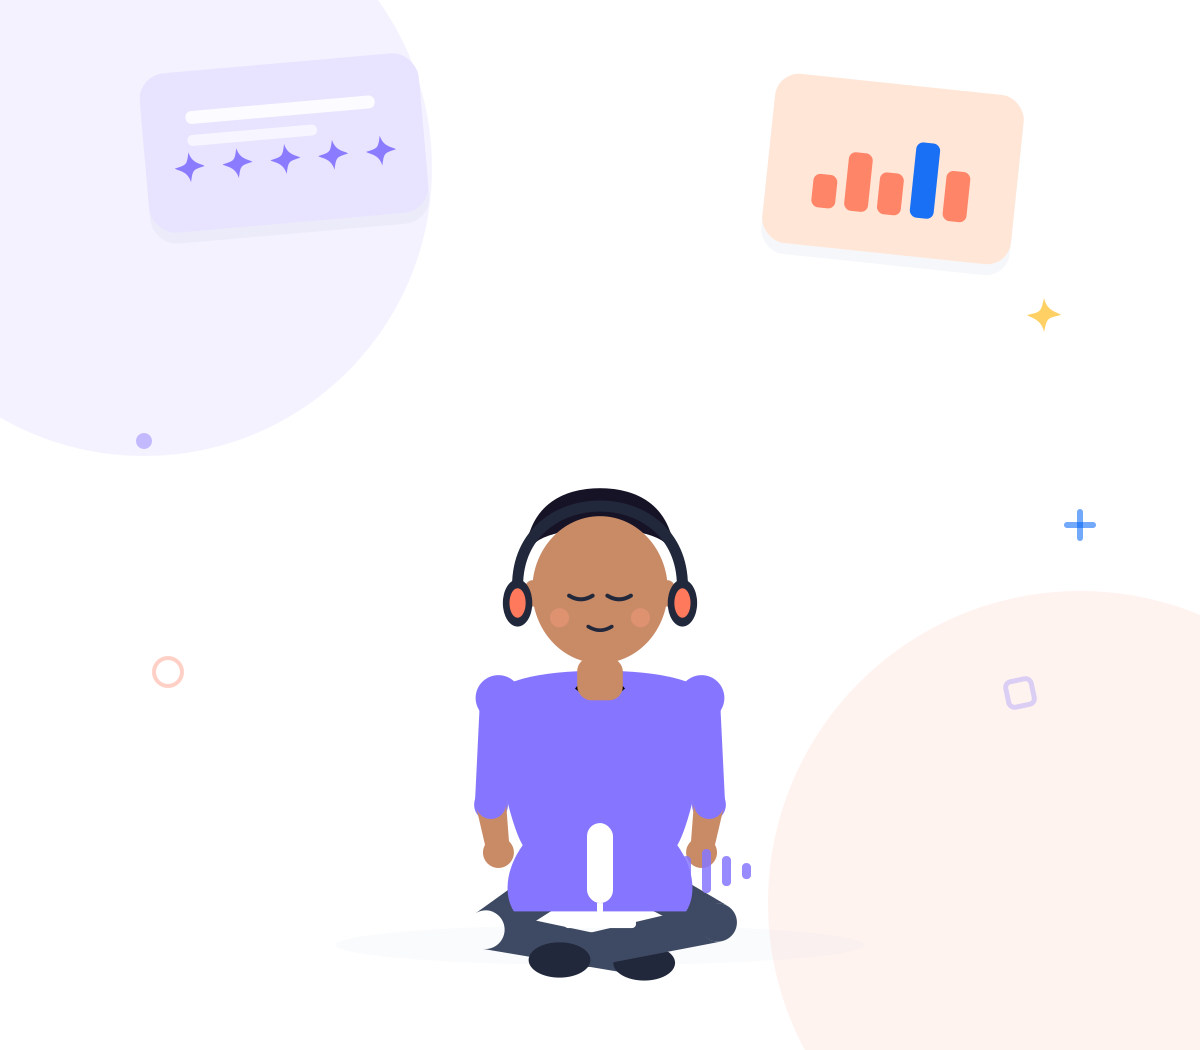
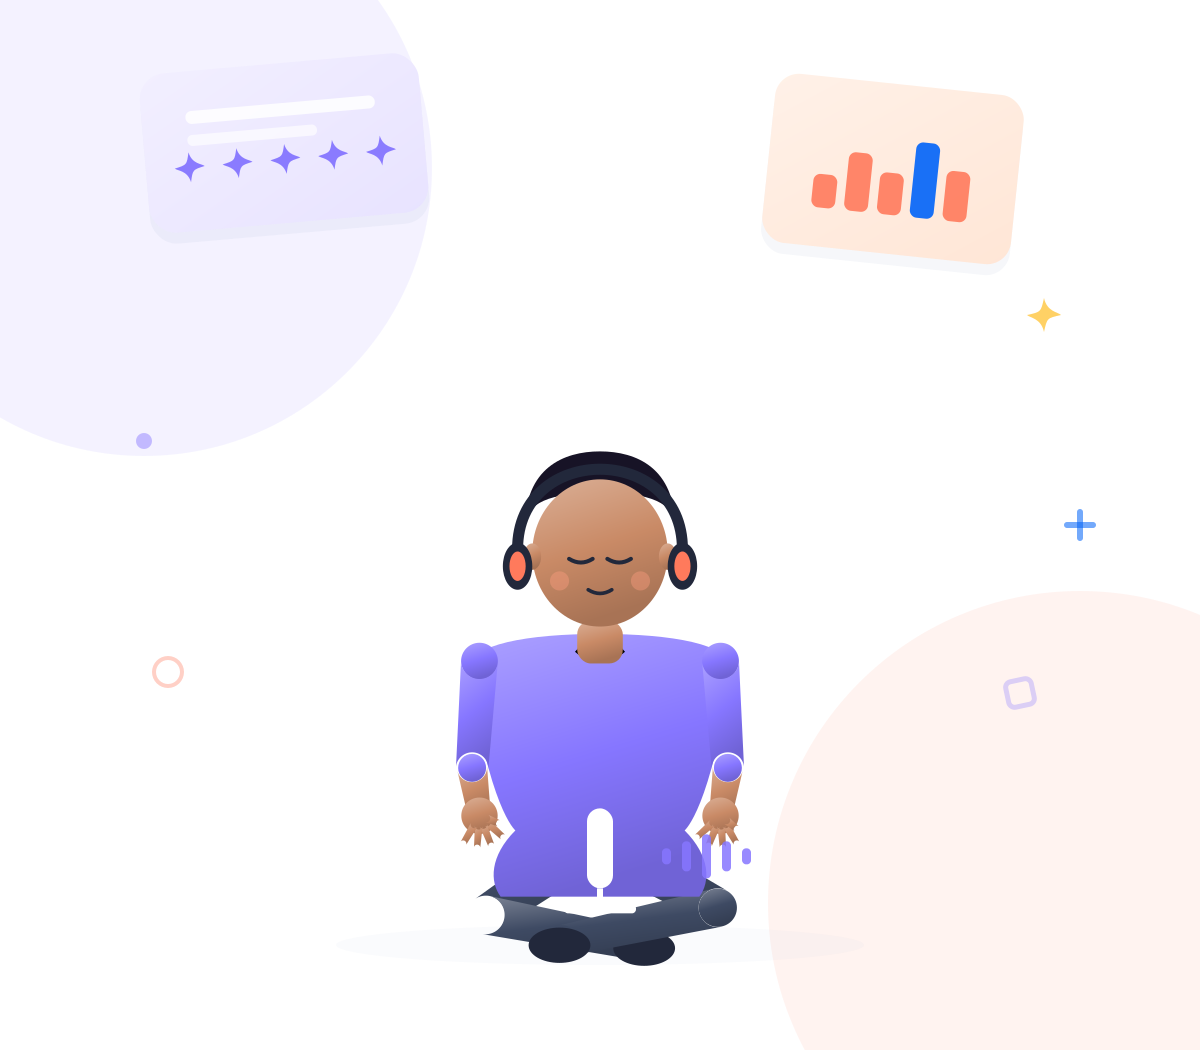
Onboarding: more human proportions, finger detail, gradient shading, no box
Follow-up report on the previous custom-artwork pass, re-sharing the
same reference screenshot with a closer look requested: 'I need a
human like illustration... looks like cartoons', 'stop wrapping the
illustrations in a box', 'use gradient designs like that'.

- person2.py: taller torso, wider shoulders relative to head (was
  still reading as a big-head cartoon mascot proportion).
- Added hand_detail() (palm + 4 fanned fingers + thumb) and
  praying_hands() (proper clasped/namaste gesture for the meditating
  'learning' character) — plain circle hands were one of the biggest
  cartoon tells.
- Every major fill (clothing, pants, cards) switched from flat hex to
  a soft light-to-dark gradient via new shade_gradient()/
  card_gradient() helpers, matching the reference's shaded style.
- Removed styles.image's borderRadius/overflow:hidden in
  src/onboarding/index.tsx — even with no backgroundColor, the
  rounded clipping boundary was reading as a box around the artwork.

Changed region(s): [[0.37, 0.4267, 0.6475, 0.9448]]

diff --git a/assets/images/index.ts b/assets/images/index.ts
@@ -147,6 +147,30 @@ export const Images = {
   // image box was missing `alignSelf: 'center'`), not an artwork problem —
   // fixed there, see that file's own comment.
   //
+  // FIFTH PASS — same reference screenshot, re-shared with a closer look
+  // requested: "I need a human like illustration... the illustration you
+  // are giving me looks like cartoons", "stop wrapping the illustrations
+  // in a box", "use gradient designs like that". Three real changes to
+  // the design kit:
+  // 1) Proportions were still too "big head on a small body" (cartoon-
+  // mascot territory) — person2.py's person_full() now uses a taller
+  // torso and wider shoulders relative to head size.
+  // 2) Hands were plain circles — added hand_detail() (a palm + 4 fanned
+  // fingers + thumb, oriented to the arm's approach angle) and
+  // praying_hands() (a proper clasped/namaste gesture for the meditating
+  // "learning" character, replacing generic held-object hands), since
+  // finger detail is one of the biggest cartoon-vs-illustrated-human
+  // tells.
+  // 3) Every major fill (clothing, pants, cards) switched from a flat hex
+  // color to a soft diagonal light-to-dark gradient (components.py's new
+  // shade_gradient()/card_gradient(), built on top of the existing
+  // linear_gradient() helper) — matching the reference's shaded, not flat,
+  // illustration style.
+  // Also removed styles.image's borderRadius/overflow:hidden in
+  // src/onboarding/index.tsx (see that file) since even with no
+  // backgroundColor, a rounded clipping boundary was still reading as a
+  // "box" around the artwork.
+  //
   // Being original artwork, there's no license/attribution question here.
   onboardingInterview: require("./img_onboarding_interview.png"),
   onboardingFeedback: require("./img_onboarding_feedback.png"),

diff --git a/src/onboarding/index.tsx b/src/onboarding/index.tsx
@@ -358,8 +358,13 @@ const themedStyles = StyleService.create({
     alignSelf: 'center',
     alignItems: 'center',
     justifyContent: 'center',
-    borderRadius: 24,
-    overflow: 'hidden',
+    // Report: "stop wrapping the illustrations in a box" — this never had
+    // a backgroundColor, but borderRadius + overflow:hidden still gave it
+    // a rounded clipping boundary, which combined with the image's own
+    // faint edge (even fully transparent PNGs get *some* anti-aliasing at
+    // their outer bounds) was enough to read as a "box" around the
+    // artwork. Neither is needed — the box is always sized to the image's
+    // own aspect ratio, so there's nothing to clip.
   },
   login: {
     flex: 1,
